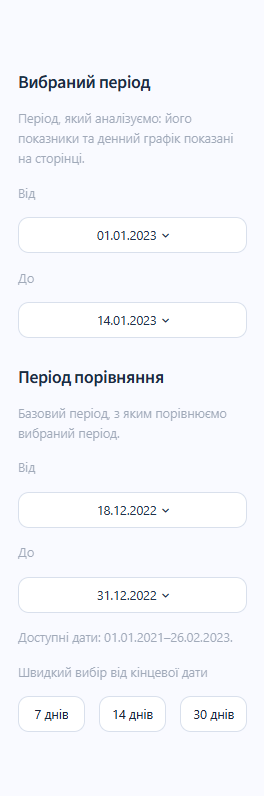
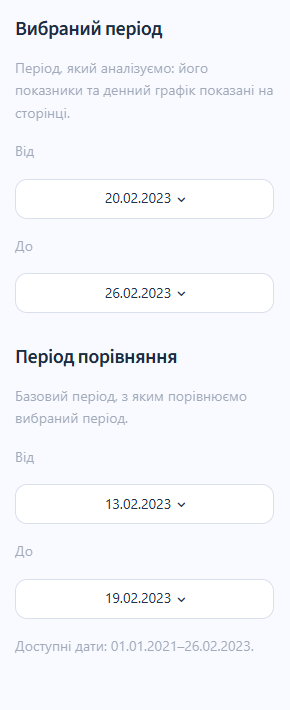
Refresh date selector screenshot

diff --git a/README.md b/README.md
@@ -99,7 +99,7 @@ Streamlit покаже в терміналі локальну адресу. Ві
 
 ![Бічна панель з двома проміжками дат](docs/images/01-periods.png)
 
-У бічній панелі ви задаєте дати аналізу та базовий проміжок для порівняння. Кожен проміжок має початок і кінець; програма включає обидві дати. Меню пропонує дати, за які є враховані платежі. На знімку показано два сусідні 14-денні проміжки. Початкові налаштування застосунку показують порівняння двох сусідніх 7-денних проміжків.
+У бічній панелі ви задаєте дати аналізу та базовий проміжок для порівняння. Кожен проміжок має початок і кінець; програма включає обидві дати. Меню пропонує дати, за які є враховані платежі. На знімку показано початкові налаштування застосунку: два сусідні 7-денні проміжки.
 
 ### 2. Показники та порівняння
 
